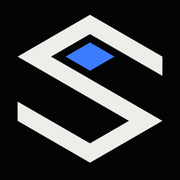
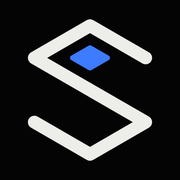
Zeichen weicher: runde, durchgehende Linie entlang der Würfelkanten, abgerundete blaue Fläche
Hero zeichnet die Linie nach, Favicon, App-Icon und OG-Bild erneuert.

diff --git a/app/src/ui.tsx b/app/src/ui.tsx
@@ -15,40 +15,42 @@ export function openMail(subject: string, body: string) {
 export const H2 = 'font-display text-[clamp(1.7rem,3.4vw,2.9rem)] leading-[1.12] tracking-[-0.02em] text-balance'
 export const WRAP = 'mx-auto max-w-[1280px] px-5 md:px-8'
 
-/* ---------- brand: an isometric cube whose edges trace an S, the top face lit in signal blue ---------- */
+/* ---------- brand: one rounded line runs along the edges of a cube and draws an S, the top face lit in signal blue ---------- */
 
-const VB = '15.4 13 225.2 230'
-const S_PATH =
-  'M15.4 78L121.5 139.3L188.6 178L128 213L15.4 148V178L128 243L240.6 178L134.5 116.7L67.4 78L128 43L240.6 108V78L128 13Z'
-const FACE = 'M128 56L166.1 78L128 100L89.9 78Z'
+const VB = '31.4 18 193.2 220'
+const S_LINE = 'M214.6 78L128 28L41.4 78L214.6 178L128 228L41.4 178'
+const FACE = 'M128 62.4L155.1 78L128 93.6L100.9 78Z'
+const LINE = { fill: 'none', stroke: '#EDEDE9', strokeWidth: 20, strokeLinecap: 'round', strokeLinejoin: 'round' } as const
+const BLUE = { fill: '#3D7BFF', stroke: '#3D7BFF', strokeWidth: 8, strokeLinejoin: 'round' } as const
 
 export function Mark({ className = 'size-7' }: { className?: string }) {
   return (
     <svg viewBox={VB} className={className} aria-hidden>
-      <path d={S_PATH} fill="#EDEDE9" />
-      <path d={FACE} fill="#3D7BFF" />
+      <path d={S_LINE} {...LINE} />
+      <path d={FACE} {...BLUE} />
     </svg>
   )
 }
 
-/* the mark at display size: the S is drawn in from the top, then the blue face drops onto the cube */
+/* the mark at display size: the line draws itself along the cube, then the blue face lights up */
 export function BigMark({ className = '' }: { className?: string }) {
   const reduce = useReducedMotion()
   return (
-    <svg viewBox={VB} className={className} role="img" aria-label="Das Zeichen von Skenderi Solutions: ein Würfel, dessen Kanten ein S bilden, die obere Fläche in Blau">
+    <svg viewBox={VB} className={className} role="img" aria-label="Das Zeichen von Skenderi Solutions: eine Linie folgt den Kanten eines Würfels und bildet ein S, die obere Fläche in Blau">
       <motion.path
-        d={S_PATH}
-        fill="#EDEDE9"
-        initial={reduce ? false : { clipPath: 'inset(0 0 100% 0)' }}
-        animate={{ clipPath: 'inset(0 0 0% 0)' }}
-        transition={{ duration: 0.9, ease: [0.16, 1, 0.3, 1], delay: 0.15 }}
+        d={S_LINE}
+        {...LINE}
+        initial={reduce ? false : { pathLength: 0 }}
+        animate={{ pathLength: 1 }}
+        transition={{ duration: 1.1, ease: [0.65, 0, 0.35, 1], delay: 0.15 }}
       />
       <motion.path
         d={FACE}
-        fill="#3D7BFF"
-        initial={reduce ? false : { opacity: 0, y: -24 }}
-        animate={{ opacity: 1, y: 0 }}
-        transition={{ duration: 0.5, ease: [0.16, 1, 0.3, 1], delay: 0.85 }}
+        {...BLUE}
+        initial={reduce ? false : { opacity: 0, scale: 0.6 }}
+        animate={{ opacity: 1, scale: 1 }}
+        transition={{ duration: 0.45, ease: [0.16, 1, 0.3, 1], delay: 1.1 }}
+        style={{ originX: 0.5, originY: 0.5 }}
       />
     </svg>
   )

diff --git a/README.md b/README.md
@@ -2,7 +2,7 @@
 
 Website für **Skenderi Solutions**, IT-Dienstleister für KMU in der Schweiz: Netzwerk, Arbeitsplätze, Cloud & Microsoft 365, Sicherheit & Backup, Websites.
 
-Das Design ist flach und ruhig: dunkle Bühne oben, Papierseiten mit Navy-Tinte, das Logo-Blau als einzige Signalfarbe, eckige Formen, keine Schatten. Das Zeichen ist ein isometrischer Würfel, dessen Kanten ein S bilden; die obere Fläche ist blau; Master in `logo/skenderi-mark.svg`. Jede Leistung hat eine eigene Unterseite unter `/leistungen/<slug>` (15 Leistungen in 5 Bereichen). Schriften: Michroma (Überschriften) und Host Grotesk.
+Das Design ist flach und ruhig: dunkle Bühne oben, Papierseiten mit Navy-Tinte, das Logo-Blau als einzige Signalfarbe, eckige Formen, keine Schatten. Das Zeichen ist eine runde Linie entlang der Kanten eines Würfels, die ein S bildet; die obere Fläche ist blau; Master in `logo/skenderi-mark.svg`. Jede Leistung hat eine eigene Unterseite unter `/leistungen/<slug>` (15 Leistungen in 5 Bereichen). Schriften: Michroma (Überschriften) und Host Grotesk.
 
 ![Desktop Hero](screenshots/desktop-hero.png)
 
